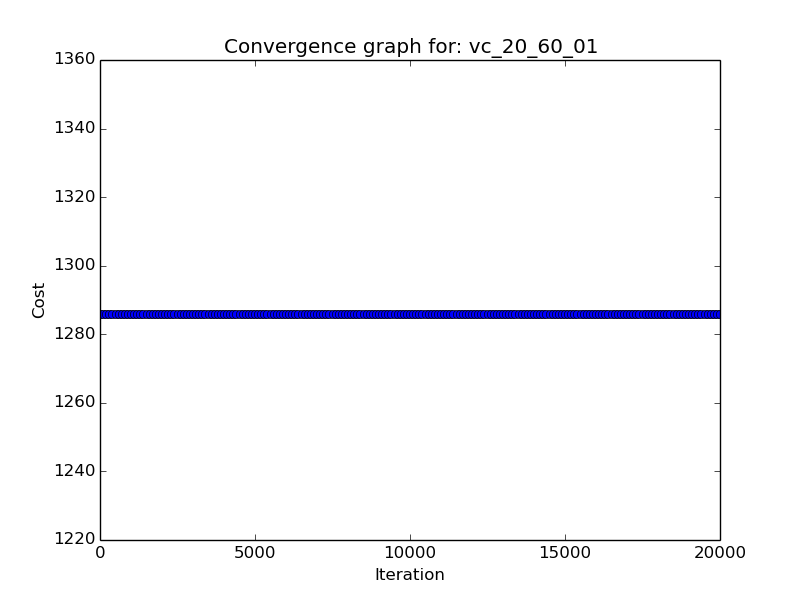
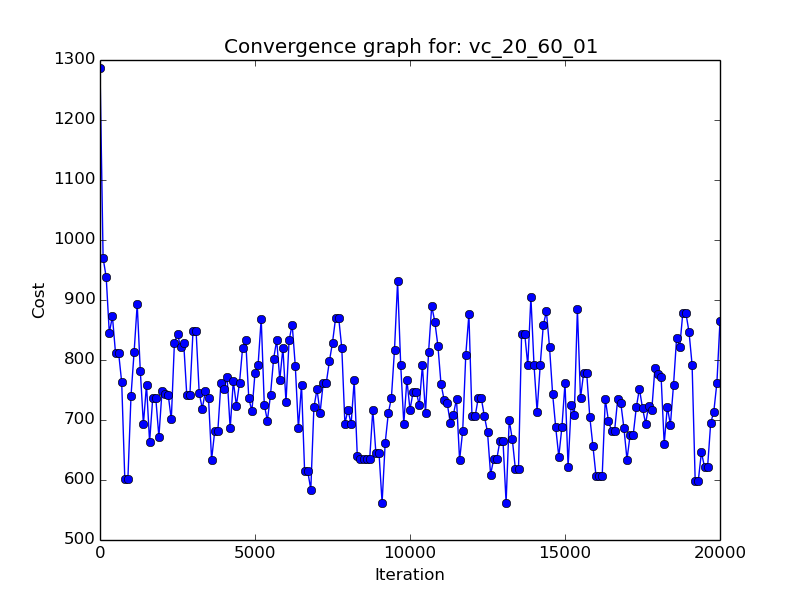
Implementata perturbazione

diff --git a/src/com/khaleoc/Main.java b/src/com/khaleoc/Main.java
@@ -8,6 +8,7 @@ import java.io.FileReader;
 import java.io.IOException;
 import java.util.ArrayList;
 import java.util.List;
+import java.util.Random;
 import java.util.Scanner;
 import java.util.stream.Collectors;
 
@@ -54,7 +55,44 @@ public class Main {
         return currentGraph;
     }
 
-    public static Solution perturbation(Solution inputSolution) {
+    public static Solution perturbation(List<Node> allNd, Solution inputSolution) {
+
+        List<Node> alreadySelected = inputSolution.getSelNodes();
+        List<Node> notSelectedNodes = new ArrayList<>(allNd);
+        notSelectedNodes.removeAll(alreadySelected);
+
+        int max = (int)alreadySelected.size() / 2;
+        int min = 1;
+        int pert_times = (int)Math.floor(Math.random()*(max-min+1)+min);
+
+        if(notSelectedNodes.size() == 0){
+            // Posso solo rimuovere
+            for (int i = 0; i < pert_times; i++){
+                int randomIndex = new Random().nextInt(alreadySelected.size());
+                Node toRem = allNd.get(randomIndex);
+                inputSolution.removeNode(toRem);
+                alreadySelected = inputSolution.getSelNodes();
+                notSelectedNodes = new ArrayList<>(allNd);
+                notSelectedNodes.removeAll(alreadySelected);
+            }
+        } else {
+            // Posso anche aggiungere nodi alla perturbazione
+            for (int i=0; i<pert_times; i++){
+                int randomIndexAdd = new Random().nextInt(notSelectedNodes.size());
+                int randomIndexRem = new Random().nextInt(alreadySelected.size());
+
+                Node toRem = allNd.get(randomIndexRem);
+                Node toAdd = allNd.get(randomIndexAdd);
+                inputSolution.removeNode(toRem);
+                inputSolution.addNode(toAdd);
+
+                alreadySelected = inputSolution.getSelNodes();
+                notSelectedNodes = new ArrayList<>(allNd);
+                notSelectedNodes.removeAll(alreadySelected);
+            }
+
+        }
+
         return inputSolution;
     }
 
@@ -65,7 +103,10 @@ public class Main {
         return toReturn;
     }
 
-    public static Solution criteria(Solution prevSol, Solution currSol){
+    public static Solution criteria(Solution prevSol, Solution newSol){
+        if (prevSol.getTotalCost() > newSol.getTotalCost()){
+            return newSol;
+        }
 
         return prevSol;
     }
@@ -101,8 +142,7 @@ public class Main {
         coordX.add(currentIter);
 
         while (currentIter < MAX_EVALS){
-            System.out.println(currentIter);
-            Solution perturbedSolution = perturbation(currentSol);
+            Solution perturbedSolution = perturbation(allNd, currentSol);
             LocalSearchBean localSearchBean = localSearch(perturbedSolution);
             Solution lsSolution = localSearchBean.getSolution();
 
@@ -120,7 +160,7 @@ public class Main {
         long endTime = System.nanoTime();
         long durationMs = (endTime - startTime) / 1000000;  //divide by 1000000 to get milliseconds.
 
-        System.out.println("Execution time for " + bestSolutionToRet.getInstanceName() + ": " + durationMs);
+        System.out.println("Execution time for " + bestSolutionToRet.getInstanceName() + ": " + durationMs +"\n");
 
         Plot plt = Plot.create();
         plt.plot().add(coordX, coordY, "o-");

diff --git a/src/com/khaleoc/Solution.java b/src/com/khaleoc/Solution.java
@@ -48,7 +48,7 @@ public class Solution {
             this.calcReachedEdges();
             this.updateCost();
             this.checkValidity();
-        } else throw new RuntimeException("Cannot add a node that is already in selected nodes!");
+        } // else throw new RuntimeException("Cannot add a node that is already in selected nodes!");
 
     }
 
@@ -60,7 +60,7 @@ public class Solution {
             this.calcReachedEdges();
             this.updateCost();
             this.checkValidity();
-        } else throw new RuntimeException("Cannot remove a node that is not in selected nodes!");
+        } // else throw new RuntimeException("Cannot remove a node that is not in selected nodes!");
 
     }
 
@@ -90,5 +90,13 @@ public class Solution {
 
     public int getTotalCost() {
         return totalCost;
+    }
+
+    public List<Node> getSelNodes() {
+        return selNodes;
+    }
+
+    public void setSelNodes(List<Node> selNodes) {
+        this.selNodes = selNodes;
     }
 }
